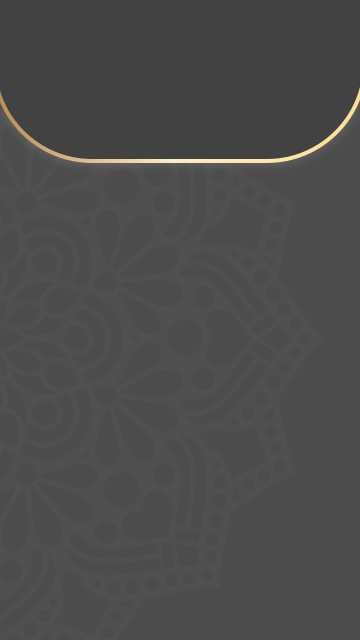
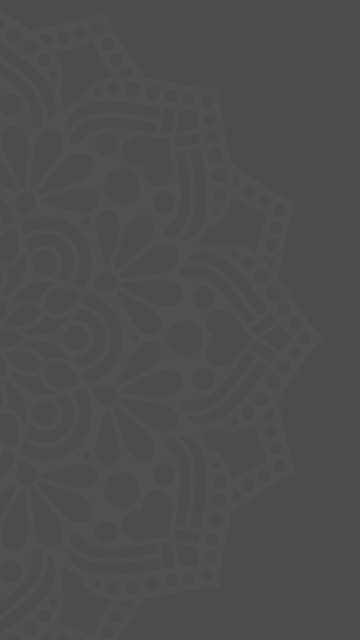
fix

diff --git a/lib/register/register.dart b/lib/register/register.dart
@@ -1,85 +1,32 @@
 import 'package:flutter/material.dart';
 
 import 'package:projek_gilang/input_field.dart';
+import 'package:projek_gilang/register/components/register_screen.dart';
 
 import 'package:projek_gilang/rounded_button.dart';
 
-class RegisterScreen extends StatelessWidget {
+class Register extends StatelessWidget {
   @override
   Widget build(BuildContext context) {
-    return MaterialApp(
-      theme: ThemeData(primaryColor: Colors.white),
-      home: Scaffold(
-        appBar: AppBar(
-          title: Text(
-            'Daftar',
-            style: TextStyle(
-              color: Colors.black,
-            ),
-          ),
-          centerTitle: true,
-          leading: IconButton(
-            icon: Icon(
-              Icons.arrow_back,
-              color: Colors.black,
-            ),
-            onPressed: () {
-              Navigator.pop(context);
-            },
-          ),
+    return Scaffold(
+      appBar: AppBar(
+        backgroundColor: Colors.white,
+        title: Text('DAFTAR'),
+        textTheme: TextTheme(
+            headline6: TextStyle(
+          color: Color(0XFF4C4C4C),
+          fontSize: 14,
+          fontFamily: 'Roboto',
+        )),
+        centerTitle: true,
+        leading: IconButton(
+          icon: Icon(Icons.arrow_back, color: Colors.black),
+          onPressed: () => Navigator.of(context).pop(),
         ),
-        body: Register(),
       ),
-    );
-  }
-}
-
-class Register extends StatefulWidget {
-  @override
-  _RegisterState createState() => _RegisterState();
-}
-
-class _RegisterState extends State<Register> {
-  TextEditingController emailController = TextEditingController();
-  TextEditingController passwordController = TextEditingController();
-  TextEditingController rePasswordController = TextEditingController();
-
-  @override
-  Widget build(BuildContext context) {
-    return SafeArea(
-      child: Column(
-        children: [
-          SizedBox(height: 20),
-          Text(
-            'logo',
-            textAlign: TextAlign.center,
-            style: TextStyle(
-              fontSize: 34.0,
-              fontFamily: 'Pacifico',
-              fontWeight: FontWeight.w400,
-            ),
-          ),
-          SizedBox(height: 48),
-          InputField(
-            hint: 'Email',
-            controller: emailController,
-          ),
-          InputField(
-            hint: 'Password',
-            controller: passwordController,
-            isObscure: true,
-          ),
-          InputField(
-            hint: 'Ulangi password',
-            controller: rePasswordController,
-            isObscure: true,
-          ),
-          RoundedButton(
-            text: 'Daftar',
-            onTap: () {},
-          )
-        ],
-      ),
+      body: RegisterScreen(),
+      resizeToAvoidBottomInset: false,
+      backgroundColor: Colors.white,
     );
   }
 }

diff --git a/lib/register/components/register_screen.dart b/lib/register/components/register_screen.dart
@@ -9,7 +9,7 @@ import 'package:projek_gilang/sign_in/components/social_icon.dart';
 import 'package:projek_gilang/size_config.dart';
 import 'icon_data.dart';
 
-class SignInScreen extends StatelessWidget {
+class RegisterScreen extends StatelessWidget {
   @override
   Widget build(BuildContext context) {
     SizeConfig().init(context);
@@ -50,15 +50,16 @@ class SignInScreen extends StatelessWidget {
       ),
     );
 
-    final loginWith = Container(
-      alignment: Alignment.center,
-      child: Text(
-        'Lupa Password?',
-        style: TextStyle(
-          color: Color(0xFF7192E5),
-          fontSize: 12.0,
-          fontWeight: FontWeight.w400,
-          fontFamily: 'Roboto',
+    final ulangipassword = TextFormField(
+      autofocus: false,
+      obscureText: true,
+      decoration: InputDecoration(
+        hintText: 'Ulangi Password',
+        contentPadding: EdgeInsets.fromLTRB(20.0, 10.0, 20.0, 10.0),
+        border: GradientOutlineInputBorder(
+          focusedGradient: InputFormGradient,
+          unfocusedGradient: InputFormGradient,
+          borderRadius: BorderRadius.circular(32.0),
         ),
       ),
     );
@@ -118,7 +119,7 @@ class SignInScreen extends StatelessWidget {
                 maxWidth: double.infinity,
                 minHeight: getProportionateScreenHeight(40)),
             child: Text(
-              'MASUK',
+              'Daftar',
               style: TextStyle(
                 color: Color(0xFF4C4C4C),
                 fontSize: 18.0,
@@ -180,14 +181,14 @@ class SignInScreen extends StatelessWidget {
             shrinkWrap: true,
             children: <Widget>[
               logo,
-              SizedBox(height: getProportionateScreenHeight(57)),
+              SizedBox(height: getProportionateScreenHeight(37)),
               email,
               SizedBox(height: getProportionateScreenHeight(28)),
               password,
+              SizedBox(height: getProportionateScreenHeight(28)),
+              ulangipassword,
               SizedBox(height: getProportionateScreenHeight(42)),
               loginButton,
-              SizedBox(height: getProportionateScreenHeight(22)),
-              loginWith,
               SizedBox(height: getProportionateScreenHeight(30)),
               atau,
               SizedBox(height: getProportionateScreenHeight(32)),

diff --git a/lib/menu_awal/component/screen_menu_awal.dart b/lib/menu_awal/component/screen_menu_awal.dart
@@ -111,8 +111,8 @@ class MenuAwalScreen extends StatelessWidget {
           right: getProportionateScreenHeight(20)),
       child: FlatButton(
         onPressed: () {
-          Navigator.push(context,
-              MaterialPageRoute(builder: (context) => RegisterScreen()));
+          Navigator.push(
+              context, MaterialPageRoute(builder: (context) => Register()));
         },
         padding: EdgeInsets.all(0),
         child: Ink(
@@ -185,10 +185,16 @@ class MenuAwalScreen extends StatelessWidget {
         Container(
           decoration: BoxDecoration(
             image: DecorationImage(
-              image: AssetImage("assets/images/ornament.png"),
+              image: AssetImage("assets/images/Background_menu_awal.png"),
               fit: BoxFit.cover,
             ),
           ),
+        ),
+        SvgPicture.asset(
+          "assets/images/background.svg",
+          //alignment: Alignment.center,
+          fit: BoxFit.fitWidth,
+          color: Color(0XFF666666).withOpacity(0.15),
         ),
         Container(
           padding: EdgeInsets.only(

diff --git a/lib/register/components/social_icon.dart b/lib/register/components/social_icon.dart
@@ -1,0 +1,26 @@
+import 'package:flutter/material.dart';
+import 'package:projek_gilang/size_config.dart';
+
+class SocialIcon extends StatelessWidget {
+  final List<Color> colors;
+  final IconData iconData;
+  final Function onPressed;
+  SocialIcon({this.colors, this.iconData, this.onPressed});
+  @override
+  Widget build(BuildContext context) {
+    return new Padding(
+      padding: EdgeInsets.only(left: 16, right: 16),
+      child: Container(
+        width: getProportionateScreenWidth(45.0),
+        height: getProportionateScreenHeight(45.0),
+        decoration: BoxDecoration(
+            shape: BoxShape.circle, color: Color.fromRGBO(237, 195, 126, 0.37)),
+        child: RawMaterialButton(
+          shape: CircleBorder(),
+          onPressed: onPressed,
+          child: Icon(iconData, color: Colors.white),
+        ),
+      ),
+    );
+  }
+}

diff --git a/lib/register/components/icon_data.dart b/lib/register/components/icon_data.dart
@@ -1,0 +1,9 @@
+import 'package:flutter/material.dart';
+
+class CustomIcons {
+  static const IconData twitter = IconData(0xe900, fontFamily: "CustomIcons");
+  static const IconData facebook = IconData(0xe901, fontFamily: "CustomIcons");
+  static const IconData googlePlus =
+      IconData(0xe902, fontFamily: "CustomIcons");
+  static const IconData linkedin = IconData(0xe903, fontFamily: "CustomIcons");
+}
